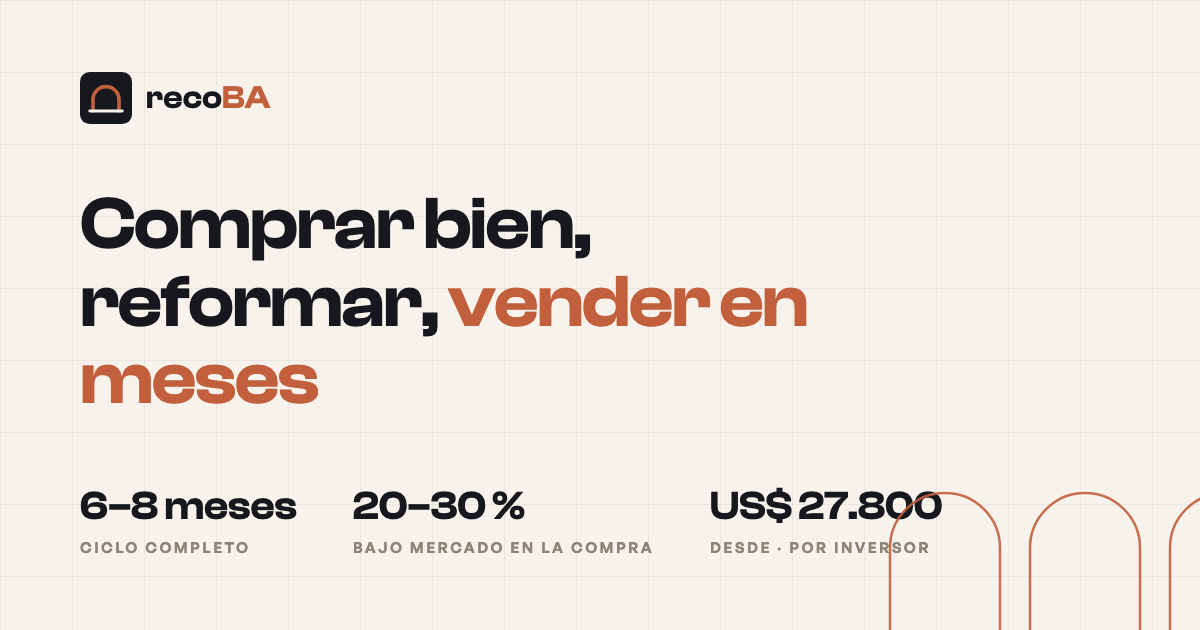
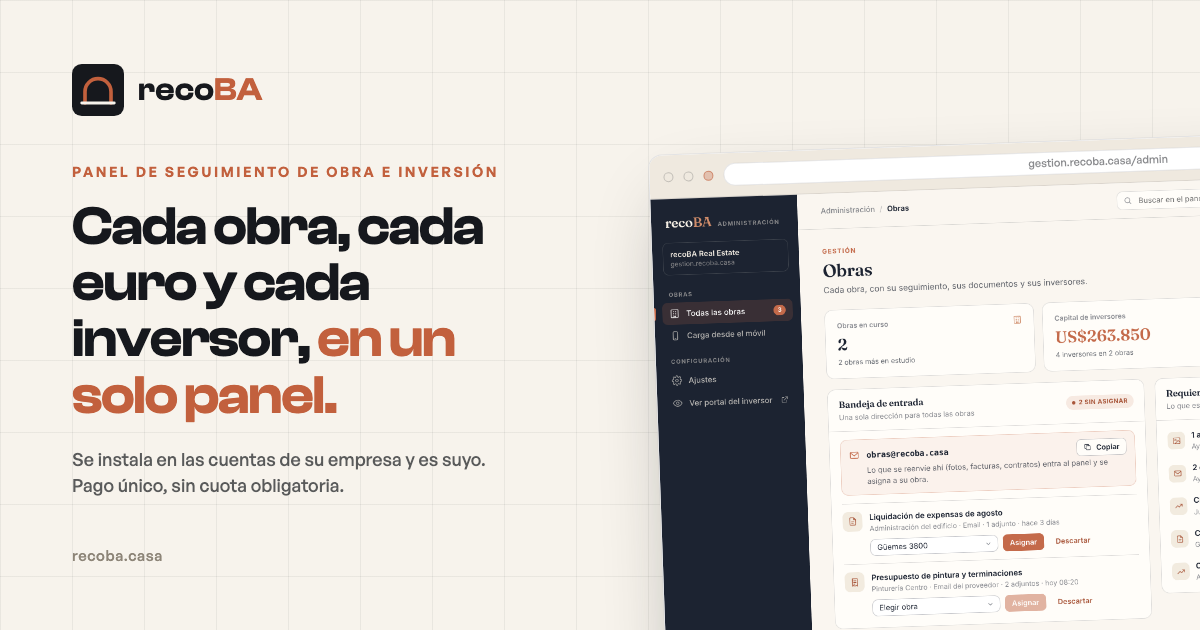
Tooling: OG nueva, QA a cuatro anchos con Playwright, README y gitignore

diff --git a/scripts/og-template.html b/scripts/og-template.html
@@ -10,6 +10,11 @@
   }
   @font-face {
     font-family: 'General Sans';
+    src: url('../public/fonts/GeneralSans-Medium.woff2') format('woff2');
+    font-weight: 500;
+  }
+  @font-face {
+    font-family: 'General Sans';
     src: url('../public/fonts/GeneralSans-Semibold.woff2') format('woff2');
     font-weight: 600;
   }
@@ -26,30 +31,38 @@
       linear-gradient(to bottom, rgba(22,24,29,0.06) 1px, transparent 1px);
     background-size: 72px 72px;
   }
-  .wrap { padding: 72px 80px; height: 100%; display: flex; flex-direction: column; justify-content: space-between; }
+  .wrap { padding: 64px 72px; height: 100%; display: flex; flex-direction: column; justify-content: space-between; width: 600px; }
   .brand { display: flex; align-items: center; gap: 14px; }
   .brand span { font-family: 'Clash Display'; font-size: 32px; letter-spacing: 0.01em; }
+  .eyebrow { font-size: 14px; font-weight: 600; letter-spacing: 0.18em; text-transform: uppercase; color: #C2603D; margin-bottom: 18px; }
   h1 {
     font-family: 'Clash Display';
-    font-size: 74px;
-    line-height: 1.05;
+    font-size: 54px;
+    line-height: 1.04;
     letter-spacing: -0.02em;
-    max-width: 820px;
   }
   h1 em { font-style: normal; color: #C2603D; }
-  .foot { display: flex; gap: 56px; align-items: flex-end; }
-  .stat b { display:block; font-family:'Clash Display'; font-size: 40px; font-variant-numeric: tabular-nums; }
-  .stat i { display:block; font-style:normal; font-size: 15px; letter-spacing: 0.16em; text-transform: uppercase; color: #8D8578; margin-top: 6px; }
-  .arcs { position:absolute; right: -20px; bottom: -8px; opacity: 0.9; }
+  .sub { font-size: 18px; line-height: 1.45; color: rgba(22,24,29,0.7); margin-top: 22px; max-width: 470px; font-weight: 500; }
+  .foot { font-size: 15px; color: #8D8578; letter-spacing: 0.04em; }
+  .shot {
+    position: absolute; right: -300px; top: 140px; width: 840px;
+    border-radius: 14px; overflow: hidden; background: #fff;
+    border: 1px solid rgba(22,24,29,0.12);
+    box-shadow: 0 30px 80px -30px rgba(22,24,29,0.45);
+    transform: rotate(-2deg);
+  }
+  .shot .bar { display: flex; align-items: center; gap: 10px; padding: 10px 14px; background: #EFE9DF; border-bottom: 1px solid rgba(22,24,29,0.09); }
+  .shot .bar i { width: 10px; height: 10px; border-radius: 50%; border: 1px solid rgba(22,24,29,0.2); display: block; }
+  .shot .bar i:last-of-type { border-color: rgba(194,96,61,0.6); background: rgba(194,96,61,0.3); }
+  .shot .bar b { flex: 1; text-align: center; font-weight: 500; font-size: 11px; color: rgba(22,24,29,0.5); background: #fff; border-radius: 999px; padding: 3px 12px; border: 1px solid rgba(22,24,29,0.1); }
+  .shot img { display: block; width: 100%; }
 </style>
 </head>
 <body>
-  <svg class="arcs" width="360" height="300" viewBox="0 0 360 300" fill="none" stroke="#C2603D" stroke-width="2.5">
-    <path d="M30 300 V210 a55 55 0 0 1 110 0 V300" />
-    <path d="M170 300 V210 a55 55 0 0 1 110 0 V300" />
-    <path d="M310 300 V210 a55 55 0 0 1 110 0 V300" />
-    <line x1="0" y1="300" x2="360" y2="300" stroke="#16181D" />
-  </svg>
+  <div class="shot">
+    <div class="bar"><i></i><i></i><i></i><b>gestion.recoba.casa/admin</b></div>
+    <img src="../src/assets/shots/admin-obras.png" alt="" />
+  </div>
   <div class="wrap">
     <div class="brand">
       <svg width="52" height="52" viewBox="0 0 64 64">
@@ -59,12 +72,12 @@
       </svg>
       <span>reco<em style="font-style:normal;color:#C2603D">BA</em></span>
     </div>
-    <h1>Comprar bien, reformar, <em>vender en meses</em></h1>
-    <div class="foot">
-      <div class="stat"><b>6–8 meses</b><i>ciclo completo</i></div>
-      <div class="stat"><b>20–30 %</b><i>bajo mercado en la compra</i></div>
-      <div class="stat"><b>US$ 27.800</b><i>desde · por inversor</i></div>
+    <div>
+      <p class="eyebrow">Panel de seguimiento de obra e inversión</p>
+      <h1>Cada obra, cada euro y cada inversor, <em>en un solo panel.</em></h1>
+      <p class="sub">Se instala en las cuentas de su empresa y es suyo. Pago único, sin cuota obligatoria.</p>
     </div>
+    <p class="foot">recoba.casa</p>
   </div>
 </body>
 </html>

diff --git a/README.md b/README.md
@@ -1,12 +1,16 @@
 # recoBA — Web oficial
 
-Web de **recoBA — Real Estate Buenos Aires**: firma boutique de house flipping +
-renta temporal en Buenos Aires para co-inversores españoles.
+Web de **recoBA — Software de seguimiento de obra e inversión**: panel de
+administración y portal del inversor para promotoras, empresas de
+compra-reforma-venta, gestoras y family offices en España.
 
-One-page estática construida con **Astro 5 + Tailwind CSS 4 + GSAP (ScrollTrigger)**.
+One-page estática construida con **Astro + Tailwind CSS 4 + GSAP (ScrollTrigger)**.
 Tipografías [Fontshare](https://www.fontshare.com) self-hosted (Clash Display +
-General Sans), gráficos SVG inline hechos a mano y animaciones con
-`prefers-reduced-motion` respetado.
+General Sans), capturas reales del producto optimizadas con `astro:assets`
+(AVIF + WebP) y animaciones con `prefers-reduced-motion` respetado.
+
+> La versión anterior de la web (co-inversión en flipping en Buenos Aires) está
+> etiquetada como `v-flipping-ba`.
 
 ## Desarrollo
 
@@ -25,7 +29,8 @@ npm run preview    # sirve ./dist en local
 ## Deploy — Netlify (por Git)
 
 El repo está conectado a Netlify: cada push a `main` construye y publica
-automáticamente (build command `npm run build`, publish `dist`).
+automáticamente (build command `npm run build`, publish `dist`). Las ramas
+generan un *branch deploy* de previsualización.
 
 Dominio: **recoba.casa**, registrado en GoDaddy, apuntando a Netlify por DNS:
 
@@ -34,39 +39,40 @@ Dominio: **recoba.casa**, registrado en GoDaddy, apuntando a Netlify por DNS:
 | A | `@` | `75.2.60.5` (apex load balancer de Netlify) |
 | CNAME | `www` | `<sitio>.netlify.app` (subdominio Netlify del proyecto) |
 
-El resto de registros de GoDaddy (NS, SOA, `_domainconnect`, `_dmarc`) se dejan
-como están. La URL canónica vive en `astro.config.mjs` (`site`).
+La URL canónica vive en `astro.config.mjs` (`site`).
 
 ## Scripts auxiliares
 
 | Comando | Qué hace |
 | --- | --- |
 | `npm run og` | Regenera `public/og.png` (1200×630) desde `scripts/og-template.html` |
-| `npm run shots` | Screenshots por sección (1440 px y 390 px) en `shots/` para autoevaluación de diseño |
-| `npm run qa` | QA funcional headless: animaciones, tabs, calculadora, menú móvil, errores de consola |
+| `npm run qa [url]` | QA con Playwright a 375, 768, 1280 y 1440 px: secciones, anclas, CTAs, acordeón, menú móvil, scroll horizontal, restos del modelo anterior y errores de consola. Guarda capturas de página completa en `qa/` |
 
-Los tres usan Playwright (`npx playwright install chromium` la primera vez).
+Ambos usan Playwright (`npx playwright install chromium` la primera vez).
+Para el QA conviene apuntar a un build de producción (`npm run build && npx astro preview --port 4399` y `npm run qa http://localhost:4399`), porque el servidor de desarrollo genera las imágenes al vuelo.
 
 ## Estructura
 
 ```
 src/
-  layouts/Base.astro        # head, SEO, OG/Twitter, fuentes
-  components/               # una sección = un componente
-  scripts/                  # GSAP por módulos: hero, reveals, charts, timeline…
+  layouts/Base.astro        # head, SEO, OG/Twitter, JSON-LD (Organization + SoftwareApplication)
+  data/site.js              # email, mailto de demo y URLs de las demos
+  components/               # una sección = un componente (Hero, Problema, Propuesta, Producto…)
+  components/Shot.astro     # captura del producto dentro de un marco de navegador (<Picture>)
+  assets/shots/             # capturas reales del panel y del portal (PNG a 2x)
+  scripts/                  # GSAP por módulos: hero, reveals, interacciones
   styles/global.css         # design tokens (@theme), grano, grid técnico, utilidades
 public/fonts/               # woff2 self-hosted (licencia Fontshare)
-scripts/                    # og.mjs · shots.mjs · qa.mjs (tooling, no se despliega)
+scripts/                    # og.mjs · qa.mjs (tooling, no se despliega)
 ```
 
 ## Notas de mantenimiento
 
-- **Cifras**: todos los importes van escritos como literales en los componentes
-  (formato español: `138.850`). La calculadora vive en
-  `src/scripts/calculadora.js` (constantes del caso Recoleta al inicio).
-- **Fotos de obra**: no hay stock a propósito. Los huecos para fotografía real
-  usan la clase `.ph` (placeholder documentado) — sustituir por `<img>` cuando
-  existan fotos.
-- **Lighthouse** (build de producción): Performance 98 · Accessibility 100 ·
+- **Contacto y demos**: todo sale de `src/data/site.js`. Los botones «Pedir una
+  demo» abren un `mailto:` con asunto y cuerpo prellenados.
+- **Precios**: literales en `src/components/Precios.astro` y en el JSON-LD de
+  `Base.astro`; si cambian, actualizar los dos sitios.
+- **Capturas**: sustituir los PNG de `src/assets/shots/` manteniendo el nombre;
+  el build regenera los formatos.
+- **Lighthouse** (build de producción, móvil): Performance 98 · Accessibility 100 ·
   Best Practices 100 · SEO 100.
-# recoBA
